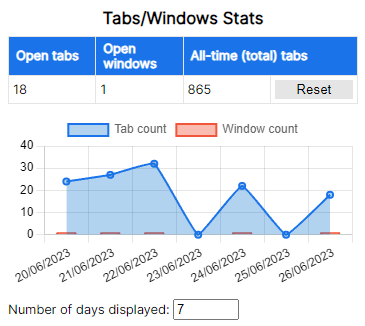
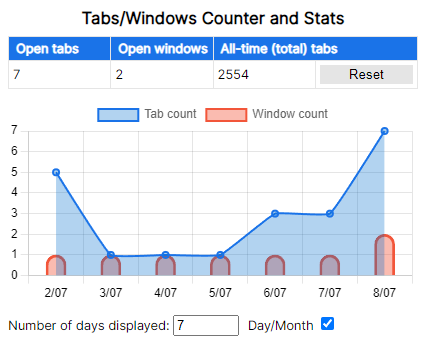
update extension

diff --git a/popup.js b/popup.js
@@ -116,9 +116,12 @@ document.addEventListener("DOMContentLoaded", function () {
 
     // Reset the totalTabs count if the reset button is clicked
     resetButton.addEventListener("click", function () {
-      chrome.storage.local.set({ totalTabs: 0 }, function () {
-        totalTabsCell.textContent = 0;
-      });
+      // Display a confirmation dialog
+      if (confirm("Are you sure you want to reset the total tabs count?")) {
+        chrome.storage.local.set({ totalTabs: 0 }, function () {
+          totalTabsCell.textContent = 0;
+        });
+      }
     });
   }
 

diff --git a/popup.html b/popup.html
@@ -7,8 +7,8 @@
     <script src="chart.min.js"></script>
   </head>
   <body>
-    <div class="statsDiv" style="width: 350px; height: auto">
-      <h2>Tabs/Windows Stats</h2>
+    <div class="statsDiv" style="width: 410px; height: auto">
+      <h2>Tabs/Windows Counter and Stats</h2>
 
       <table>
         <thead>
